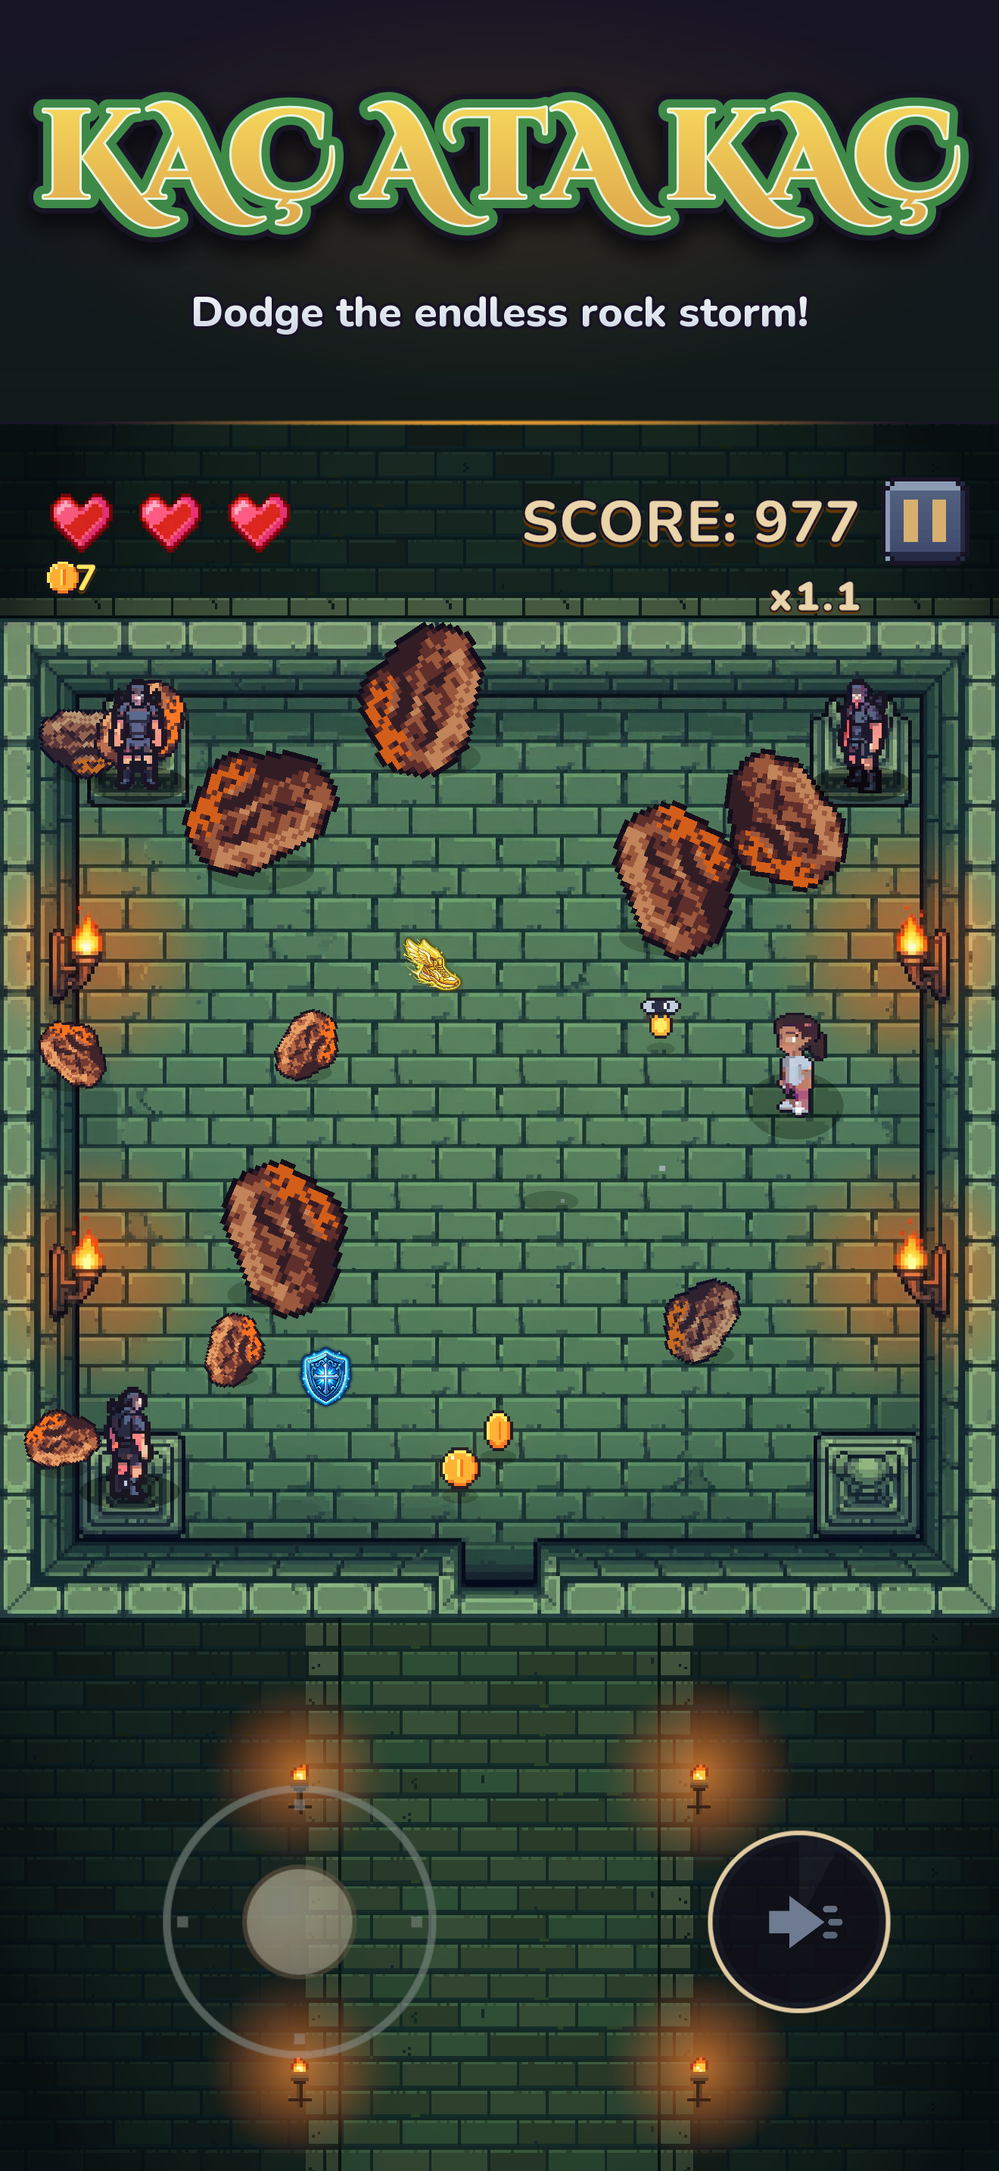
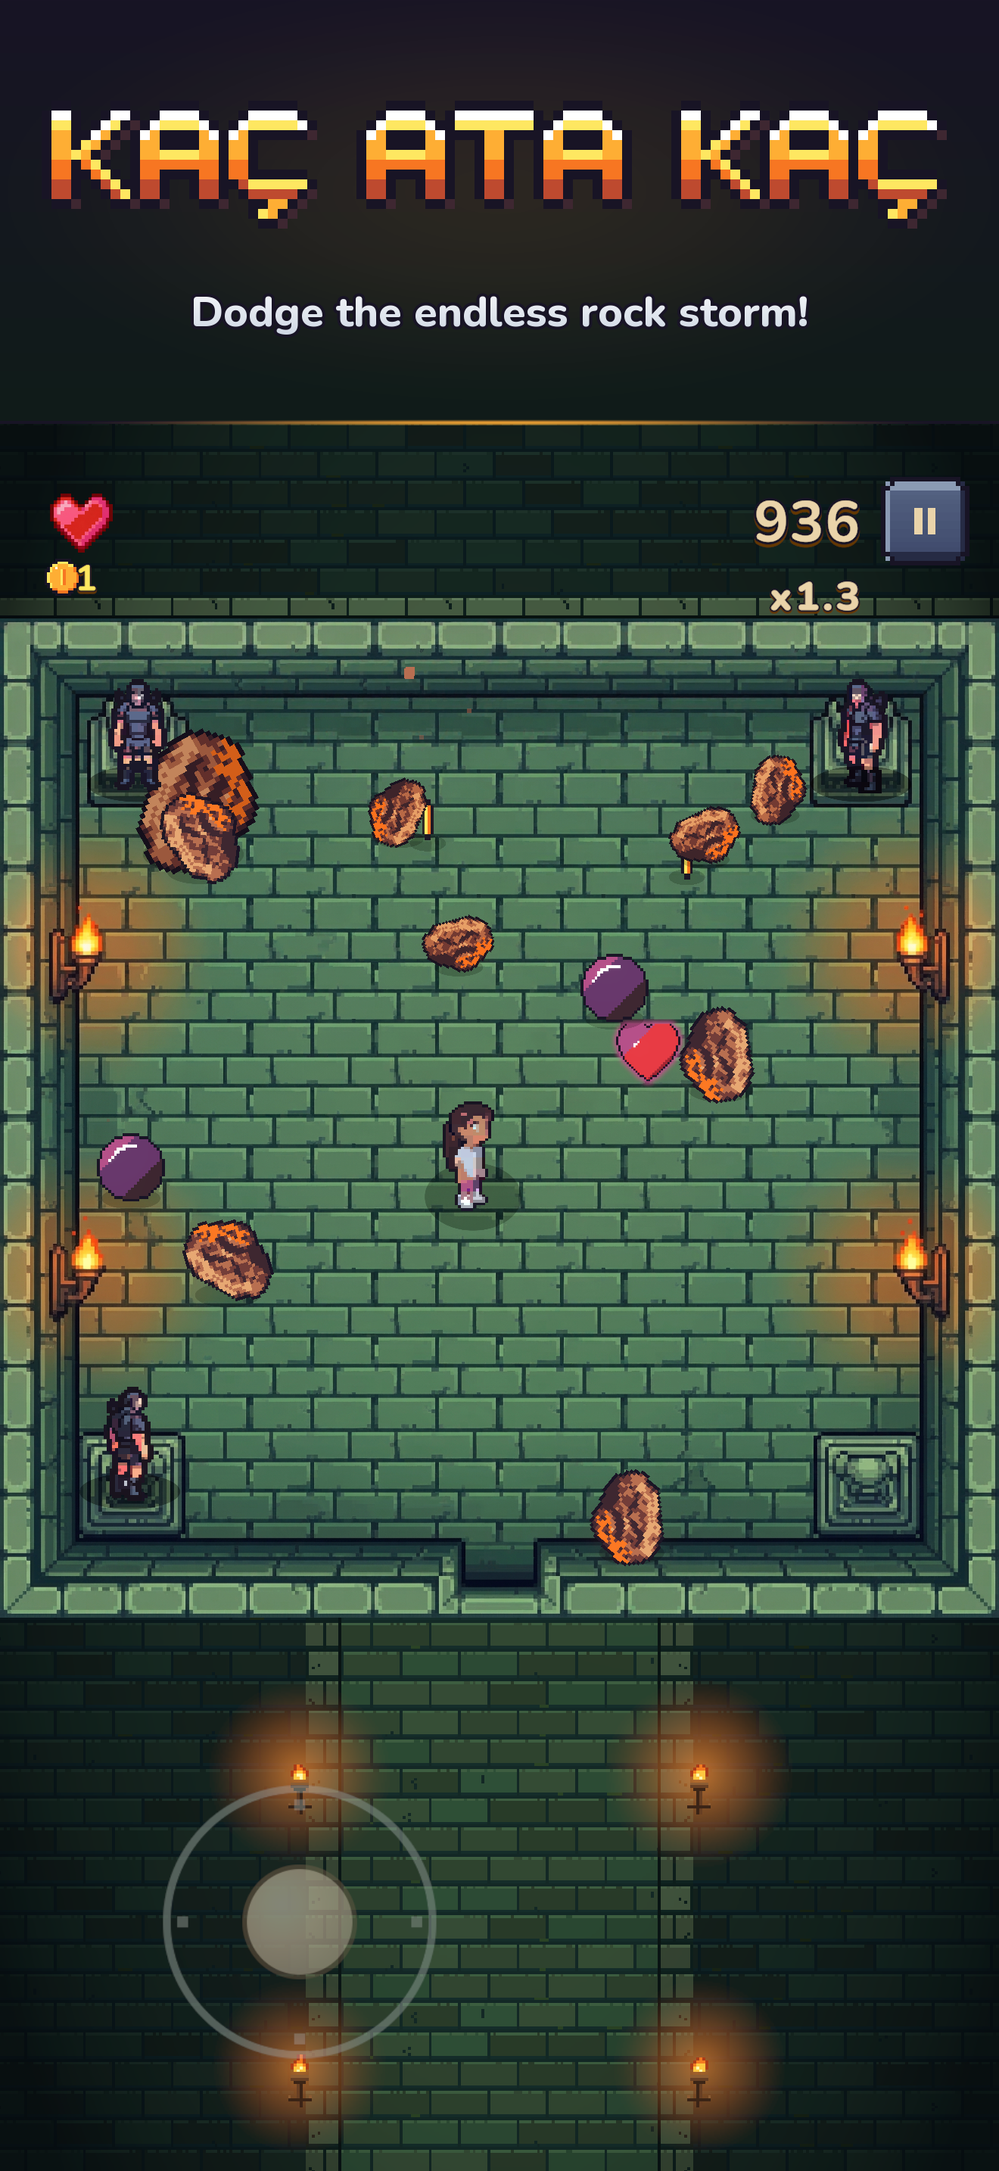
feat(faz-14 Ö6a): mağaza odak sürümüne göre — metin ve görseller
- listing.md TR/EN: dash, pet, görev, günlük ödül ve Sessizlik vaadi kalktı; 5 eşya, 3 olay, altınla güçlenme, tek telefonda 2 kişi
- Görseller: piksel logo, kıl payı kaçış ("!" göktaşı) ve iki kişilik sahneleri; eski pet ve günlük ödül görselleri silindi
- Çekim: ölümsüzlük oyun başında açılıyor, rekor sahnesi her dilde yeni rekorla bitiyor
- GiveAllPowerups yalnız bölümün eşya listesini verir

diff --git a/tools/kak_store_shots.py b/tools/kak_store_shots.py
@@ -55,30 +55,32 @@ BASE = [
 SHOTS = [
     {"id": "1_oyun", "logo": True,
      "cap": ("KAÇ ATA KAÇ", "Taş yağmurundan kaç, rekorunu kır!", "KAÇ ATA KAÇ", "Dodge the endless rock storm!"),
-     "setup": [["invoke", "KakDevMenu", "PlayAs", "Ada"], ["wait", 2], ["invoke", "KakDevMenu", "PlayWithPet", "Firefly"],
-               ["wait", 3], ["menu", "KacAtaKac/Dev/Ölümsüzlük Aç-Kapa"], ["invoke", "KakDevMenu", "SkipTime", "200"], ["invoke", "KakDevMenu", "AddScore", "760"],
+     "setup": [["invoke", "KakDevMenu", "PlayAs", "Ada"],
+               ["wait", 1], ["menu", "KacAtaKac/Dev/Ölümsüzlük Aç-Kapa"], ["wait", 4], ["invoke", "KakDevMenu", "SkipTime", "200"], ["invoke", "KakDevMenu", "AddScore", "760"],
                ["menu", "KacAtaKac/Dev/Test Botunu Başlat (usta)"], ["wait", 6]]},
     {"id": "2_karakter", "per_lang": True,
-     "cap": ("5 kahraman, 5 oyun tarzı", "Altın topla, yenilerinin kilidini aç", "5 heroes, 5 play styles", "Collect gold to unlock new heroes"),
+     "cap": ("5 kahraman, 5 oyun tarzı", "Altın topla, kahramanını güçlendir", "5 heroes, 5 play styles", "Collect gold, power up your hero"),
      "setup": [["invoke", "SceneLoader", "LoadMenu"], ["wait", 2], ["menu", "KacAtaKac/Dev/UI - Karakterleri Aç"], ["wait", 1],
                ["invoke", "KakDevMenu", "PressCharacterCard", "1"], ["wait", 1]]},
     {"id": "3_guc",
-     "cap": ("Güçlendirmeleri kap", "Kalkan, hız, yavaş çekim, hayalet, can", "Grab power-ups", "Shield, speed, slow-mo, ghost, extra life"),
+     "cap": ("Güçlendirmeleri kap", "Kalkan, yavaş çekim, hayalet, can", "Grab power-ups", "Shield, slow-mo, ghost, extra life"),
      "setup": [["invoke", "KakDevMenu", "PlayAs", "Tank"], ["wait", 3], ["menu", "KacAtaKac/Dev/Ölümsüzlük Aç-Kapa"],
                ["invoke", "KakDevMenu", "SkipTime", "160"], ["invoke", "KakDevMenu", "AddScore", "620"], ["menu", "KacAtaKac/Dev/Test Botunu Başlat (usta)"], ["wait", 5],
                ["menu", "KacAtaKac/Dev/Tüm Powerup'ları Ver"], ["wait", 0.6]], "take_gap": 0.4},
-    {"id": "4_pet", "per_lang": True,
-     "cap": ("Petin hep yanında", "Ateşböceği altın çeker, kaplumbağa korur", "Your pet has your back", "Firefly pulls gold, turtle shields you"),
-     "setup": [["invoke", "SceneLoader", "LoadMenu"], ["wait", 2], ["invoke", "KakDevMenu", "OpenPets"], ["wait", 1],
-               ["invoke", "KakDevMenu", "PressPetCard", "0"], ["wait", 1]]},
+    {"id": "4_kacis",
+     "cap": ("Kıl payı kaç", "Göktaşının yerini \"!\" söyler", "Graze the danger", "The \"!\" shows where it lands"),
+     "setup": [["invoke", "KakDevMenu", "PlayAs", "Boy"], ["wait", 3], ["menu", "KacAtaKac/Dev/Ölümsüzlük Aç-Kapa"],
+               ["invoke", "KakDevMenu", "SkipTime", "120"], ["invoke", "KakDevMenu", "AddScore", "540"],
+               ["menu", "KacAtaKac/Dev/Test Botunu Başlat (usta)"], ["wait", 4], ["invoke", "KakDevMenu", "StartEvent", "0"], ["wait", 2.8]], "take_gap": 0.5},
     {"id": "5_rekor", "per_lang": True,
-     "cap": ("Rekorunu kır", "Görevleri bitir, altınları topla", "Beat your best", "Finish missions, earn gold"),
-     "setup": [["invoke", "KakDevMenu", "PlayAs", "Swift"], ["wait", 3], ["invoke", "KakDevMenu", "SetBest", "900"],
+     "cap": ("Rekorunu kır", "Her oyun bir öncekinden uzun", "Beat your best", "Every run lasts a little longer"),
+     "setup": [["invoke", "KakDevMenu", "PlayAs", "Swift"], ["wait", 3], ["invoke", "KakDevMenu", "SetBest", "900"], ["menu", "KacAtaKac/Dev/Ölümsüzlük Aç-Kapa"],
                ["menu", "KacAtaKac/Dev/Test Botunu Başlat (usta)"], ["wait", 38], ["invoke", "KakDevMenu", "AddScore", "1050"],
                ["wait", 1], ["menu", "KacAtaKac/Dev/Oyuncuyu Öldür"], ["wait", 4.5]]},
-    {"id": "6_gunluk", "per_lang": True,
-     "cap": ("Her gün yeni ödül", "7 günlük seriyi tamamla", "Rewards every day", "Complete the 7-day streak"),
-     "setup": [["invoke", "SceneLoader", "LoadMenu"], ["wait", 2], ["invoke", "KakDevMenu", "OpenDaily", "3"], ["wait", 1.5]]},
+    {"id": "6_iki",
+     "cap": ("Tek telefonda 2 kişi", "Ata ve Ada birlikte kaçar", "2 players, 1 phone", "Ata and Ada run together"),
+     "setup": [["invoke", "KakDevMenu", "PlayTwoPlayer"], ["wait", 3], ["menu", "KacAtaKac/Dev/Ölümsüzlük Aç-Kapa"],
+               ["invoke", "KakDevMenu", "SkipTime", "90"], ["invoke", "KakDevMenu", "AddScore", "430"], ["wait", 5]]},
 ]
 
 
@@ -195,12 +197,14 @@ def text_layer(size, text, f, fill_top, fill_bottom, strokes, shadow=None):
 
 
 def logo(w, h, size, text="KAÇ ATA KAÇ"):
-    """Menüdeki logonun benzeri: Cinzel Decorative, altın dolgu, açık iç kontur, yeşil dış kontur, koyu gölge."""
-    f = fit_font("CinzelDecorative-Black.ttf", text, int(w * 0.92), size)
-    s = max(2, f.size // 22)
-    return text_layer((w, h), text, f, GOLD_LIGHT, LOGO_FILL,
-                      [(INK, s * 3), (GREEN, s * 2), ((0xE8, 0xF5, 0xE0), max(1, s // 2))],
-                      shadow=((0x0B, 0x0A, 0x12), s * 2, s * 2))
+    """Faz 14: oyundaki piksel logonun kendisi (Art/UI/logo_pixel.png), tam sayı ölçekle (bulanıklaşmaz), ortalı."""
+    src = Image.open(os.path.join(ROOT, "Assets", "Art", "UI", "logo_pixel.png")).convert("RGBA")
+    base = src.resize((src.width // 8, src.height // 8), Image.NEAREST)   # 1 sanat pikseli
+    k = max(1, min(int(w * 0.94) // base.width, h // base.height))
+    big = base.resize((base.width * k, base.height * k), Image.NEAREST)
+    out = Image.new("RGBA", (w, h), (0, 0, 0, 0))
+    out.alpha_composite(big, ((w - big.width) // 2, (h - big.height) // 2))
+    return out
 
 
 def caption_band(w, h, top_color, head, sub, use_logo, scale):
@@ -314,7 +318,6 @@ def feature():
             drop_shadow(c, spr, (x, y), ellipse=(x + (bx0 + bx1) // 2, foot - 2, 70, 11), alpha=150)
             placed.append((x + bx0, y + by0, x + bx1, y + by1))
         assert placed[1][2] <= W - 24, "Ata kenara taştı"
-        drop_shadow(c, load_sprite("Assets/Art/Pets/firefly_0.png", 5), (placed[0][0] + 40, placed[0][1] - 96))
         # arkadan (sol üst) gelen taşlar, izleriyle; yüzlerden uzak
         for sc, pos, st in ((4, (596, 22), (26, 14)), (3, (772, 104), (22, 12)), (5, (880, 12), (30, 16))):
             trail(c, rock(sc), pos, st)

diff --git a/Assets/Scripts/Editor/KakDevMenu.cs b/Assets/Scripts/Editor/KakDevMenu.cs
@@ -93,11 +93,11 @@ public static class KakDevMenu
     {
         var player = Object.FindAnyObjectByType<PlayerMovement2D>();
         if (player == null) return;
-        foreach (var guid in AssetDatabase.FindAssets("t:PowerupData", new[] { "Assets/Data/Powerups" }))
-        {
-            var d = AssetDatabase.LoadAssetAtPath<PowerupData>(AssetDatabase.GUIDToAssetPath(guid));
+        // Faz 14: yalnız bu bölümün eşyaları (gizli dünyaların eşyaları değil)
+        var level = LevelManager.Instance != null ? LevelManager.Instance.currentLevel : null;
+        if (level == null || level.availablePowerups == null) return;
+        foreach (var d in level.availablePowerups)
             if (d != null && d.type != PowerupType.Heal && !d.harmful) PowerupPickup.Apply(d, player.gameObject, player.transform.position);
-        }
     }
 
     /// <summary>Kayıttaki oyun sayısını ayarlar (açılma takvimini denemek için; Play'de geçici kayda yazar). Köprü: invoke KakDevMenu SetGamesPlayed 4</summary>

diff --git a/Docs/Magaza/listing.md b/Docs/Magaza/listing.md
@@ -12,64 +12,62 @@
 | App Store 6,9" iPhone (1-10) | `appstore/tr_*.png`, `appstore/en_*.png` (6'şar) | 1320×2868 |
 | App Store ikon | `ikon_1024.png` (projede otomatik de gider) | 1024×1024, şeffaflık yok |
 
-Sıra: 1 oyun (logo) · 2 karakterler · 3 güçlendirmeler · 4 petler · 5 rekor + görevler · 6 günlük ödül.
+Sıra (Faz 14 odak sürümü): 1 oyun (logo) · 2 karakterler · 3 güçlendirmeler · 4 kıl payı kaçış ("!") · 5 rekor · 6 iki kişilik.
 Yeniden üretmek için (Unity açık): `python3 tools/kak_store_shots.py all` (çekim → birleştirme → öne çıkan grafik → ikon). Tümü oyundan gerçek görüntü; yalnızca başlık bandı eklendi.
 
 ## Türkçe
 - **Ad (30):** Kaç Ata Kaç
 - **Alt başlık, App Store (30):** Sonsuz taş yağmurundan kaç!
-- **Kısa açıklama, Google Play (80):** Dört köşeden taş yağıyor! Kaç, dash at, kahramanını seç, rekorunu kır.
-- **Tanıtım metni, App Store (170):** Tek parmakla kaç, taşların hemen yanından sıyrıl, altın topla. 5 kahraman, sadık petler, görevler ve günlük ödüllerle her oyun biraz daha heyecanlı!
+- **Kısa açıklama, Google Play (80):** Dört köşeden taş yağıyor! Kıl payı kaç, kahramanını güçlendir, rekorunu kır.
+- **Tanıtım metni, App Store (170):** Tek parmakla kaç, taşların kıl payı yanından sıyrıl, altın topla. 5 kahraman, güçlendirmeler ve tek telefonda 2 kişilik mod!
 - **Açıklama (4000):**
 
   Ata ile Ada, unutulmuş Taş Zindanı'nda efsanevi altınları arıyordu. İlk altına dokundukları an Taş Muhafızlar uyandı ve lanet onları her yerde kovalamaya başladı. Saldıramazsın: tek çare kaçmak, altınları toplamak ve laneti kırmak!
 
   Karanlık bir zindanın ortasındasın ve dört köşedeki muhafızlar sana taş fırlatıyor.
-  Tek parmakla kaç, doğru anda dash at, taşların hemen yanından sıyrılarak bonus topla.
+  Tek parmakla kaç, taşların kıl payı yanından sıyrılarak bonus topla.
   Hayatta kaldıkça oyun hızlanır: çakıllar, dev kayalar, duvardan seken taşlar, ikiye bölünenler, gökten düşen göktaşları…
 
   **Neler var?**
   - Tek elle oynanan, dikey, hızlı bir arcade oyunu
-  - 7 taş türü, 4 sürpriz olay (Taş Yağmuru, Çapraz Ateş, Sessizlik, Yuvarlanan Kaya)
-  - Yakın geçiş bonusu ve combo çarpanı
-  - Kalkan, hız, yavaş çekim, hayalet ve can güçlendirmeleri
+  - 7 taş türü, her biri bakışta tanınır; 3 sürpriz olay (Taş Yağmuru, Çapraz Ateş, Yuvarlanan Kaya)
+  - Yakın geçiş bonusu ve skor çarpanı
+  - Kalkan, yavaş çekim, hayalet ve can güçlendirmeleri; ama Pranga'dan uzak dur!
   - 5 kahraman, her biri farklı: dengeli Ata ve Ada, hızlı Çevik, dayanıklı Tank, bol altınlı Şanslı
-  - Petler: altınları sana çeken Ateşböceği, arada kalkan veren Kaplumbağa
-  - Her oyunda yeni görevler, 7 günlük ödül serisi
-  - Oyun sırasında topladığın altınla yeni kahraman ve pet aç
+  - Topladığın altınla kahramanını güçlendir: daha çok can, daha hızlı adım, daha uzun güç
+  - Tek telefonda 2 kişilik mod: Ata ve Ada birlikte kaçar
   - Piksel sanatı, meşale ışığında bir zindan
   - İnternet gerekmez, hesap gerekmez
 
   Rekorunu kır, arkadaşlarına meydan oku. Kaç, Ata, kaç!
-- **Anahtar kelimeler, App Store (100):** kaçış,taş,arcade,sonsuz,refleks,piksel,zindan,hayatta kal,dodge,retro,pet
+- **Anahtar kelimeler, App Store (100):** kaçış,taş,arcade,sonsuz,refleks,piksel,zindan,hayatta kal,dodge,retro,2 kişilik
 - **Kategori:** Oyun › Arcade (ikincil: Gündelik / Casual)
 - **Yaş derecelendirmesi (anket sonucu belirler, beklenen):** App Store 9+, Google Play PEGI 7 / ESRB E10+ (hafif çizgi film şiddeti: taşlar; kan yok)
 
 ## English
 - **Name (30):** Kaç Ata Kaç — Rock Dodge
 - **Subtitle, App Store (30):** Survive the endless rock storm
-- **Short description, Google Play (80):** Rocks from every corner! Dodge, dash, pick your hero and beat your best.
-- **Promotional text, App Store (170):** Dodge with one thumb, graze rocks for bonus points and grab gold. 5 heroes, loyal pets, missions and daily rewards make every run a little more exciting!
+- **Short description, Google Play (80):** Rocks from every corner! Graze them, power up your hero and beat your best.
+- **Promotional text, App Store (170):** Dodge with one thumb, graze rocks for bonus points and grab gold. 5 heroes, power-ups and a 2-player mode on one phone!
 - **Description (4000):**
 
   Ata and Ada were searching the forgotten Stone Dungeon for legendary gold. The moment they touched the first coin, the Stone Guardians woke up, and now the curse chases them everywhere. You can't fight back: run, grab the gold and break the curse!
 
   You're trapped in a dark dungeon and four guards are hurling rocks at you.
-  Dodge with one thumb, dash at the perfect moment and graze rocks for bonus points.
+  Dodge with one thumb and graze rocks for bonus points.
   The longer you survive, the wilder it gets: pebbles, boulders, bouncing rocks, splitting rocks, meteors…
 
   **Features**
   - One-handed, portrait, fast-paced arcade action
-  - 7 rock types, 4 surprise events (Rock Rain, Crossfire, Silence, Rolling Boulder)
-  - Close-call bonus and combo multiplier
-  - Shield, speed, slow-mo, ghost and extra-life power-ups
+  - 7 rock types you can read at a glance; 3 surprise events (Rock Rain, Crossfire, Rolling Boulder)
+  - Close-call bonus and score multiplier
+  - Shield, slow-mo, ghost and extra-life power-ups, but stay away from the Shackle!
   - 5 heroes with their own style: balanced Ata and Ada, speedy Swift, tough Tank, gold-hungry Lucky
-  - Pets: a Firefly that pulls gold to you and a Turtle that shields you now and then
-  - New missions every run and a 7-day reward streak
-  - Spend the gold you collect to unlock new heroes and pets
+  - Spend your gold to power up your hero: more hearts, faster steps, longer power-ups
+  - 2-player mode on one phone: Ata and Ada run together
   - Pixel art dungeon lit by torches
   - Plays offline, no account needed
 
   Beat your best and challenge your friends. Run, Ata, run!
-- **Keywords, App Store (100):** dodge,rocks,arcade,endless,reflex,pixel,dungeon,survival,retro,casual,pet
+- **Keywords, App Store (100):** dodge,rocks,arcade,endless,reflex,pixel,dungeon,survival,retro,casual,2 player
 - **Category:** Games › Arcade (secondary: Casual)

diff --git a/.claude/skills/kacatakac/progress.md b/.claude/skills/kacatakac/progress.md
@@ -1,6 +1,6 @@
 # KaçAtaKaç — İlerleme ve Durum
 
-> Her iş sonunda güncellenir. En son güncelleme: **2026-10-03**
+> Her iş sonunda güncellenir. En son güncelleme: **2026-10-04**
 
 ## Son durum (özet)
 
@@ -148,7 +148,8 @@ Sonra: 6 (Buz) → 7 (Futbol) → 8 (Karanlık) → 9 (Meta).
 - [x] Ö3 oyun içi sadelik: yakın geçişte "YAKIN!" yazısı yerine küçük altın "+5" + camgöbeği kıvılcım, eşya adı yalnız ilk alışta (`SaveData.seen` "pu_named_<tür>"), oyun sonu istatistik satırı "SÜRE · YAKIN GEÇİŞ" (COMBO kalktı), görevsiz panel 1370 (sıradaki hedef satırı TEKRAR'a değmiyordu). Kademe ve olay afişleri kaldı. Testler 131/131 + 27/27
 - [x] Ö4 görsel tutarlılık: 5 eşya ikonu tek stilde (`tools/kak_gen_icons.py`: 32 px, aynı kontur ve ışık, renk rolüne göre tek hâle), arayüz ikonları yeniden (oynat, karakter, dişli, duraklat, kilit, onay), karakter kartı sade (büyük karakter, açıklama yalnız detayda, dash çubuğu yok), taş türleri bakışta ayırt edilir (`tools/kak_gen_rocks.py`: güdümlü = kırmızı göz, parçalanan = parlayan çatlak, seken = yuvarlak mor taş `keepUpright`). Testler 131/131 + 27/27
 - [x] Ö5 his ve akış: HUD skoru yalnız sayı ("SKOR:" kalktı), ilk oyun ipuçları zaten dash'siz, dokunulmazlık yanıp sönmesi süreye bağlı (yavaş karelerde dokunulmazlıktan uzun sürüyordu), Zindan bot ölçümü usta 91-246 / acemi 135-295 sn (tek dünya, 1-4 dk seans hedefine uygun). Editör sesi kapalı (kullanıcı isteği). Testler 131/131 + 27/27
-- [ ] Ö6 telefon
+- [x] Ö6a mağaza: `Docs/Magaza/listing.md` TR/EN odak kapsamına göre (dash/pet/görev/günlük ödül/Sessizlik yok; 5 eşya, 3 olay, altınla güçlenme, tek telefonda 2 kişi; anahtar kelimede "pet" → "2 kişilik"; sınırlar 76-79/80, 119-124/170, 78-79/100). Görseller: 1 oyun (piksel logo), 2 karakter, 3 güç, 4 kıl payı kaçış (göktaşı "!"), 5 rekor, 6 iki kişilik; eski 4_pet ve 6_gunluk silindi. `GiveAllPowerups` yalnız bölümün eşya listesini verir. Testler 131/131 (+1 atlanan) + 27/27
+- [ ] Ö6b telefon: odak sürümünü iPhone'a kur, kullanıcı "AI slop" gözüyle değerlendirsin
 
 **Faz 13 — yeni dünyalar TAMAM** (`prompts/faz-13-yeni-dunyalar.md`, PR #41-#44). Faz 13 sürümü **iPhone'a kuruldu** (2026-10-03, iOS 26.7). Sıradaki: kullanıcının 4 dünyayı denemesi ve geri bildirimi; sonra boks ringi, kostümler, karakter yetenekleri, online (Faz 11 notları), 120 FPS ayarı, duraklat menüsünden kontrol düzeni.
 - [x] K1 karanlık sistemi (`DarkWorld`: tema `darkness` → karanlık katmanı SpriteMask dışında, `PlayerLight` meşale deliği + yumuşak kenar + hâle + elde meşale, `TorchProgress` Sv1-4 yarıçap 1,7/2,1/2,5/2,9, fiyat 250/600/1200, ipuçları: taş parıltısı, fırlatıcı gözleri (atıştan önce yanar), "!", altın, eşya). Testler 115/115 + 27/27
@@ -175,6 +176,7 @@ Her alt faz sonunda: testler + bot ölçümü + PR + (kullanıcı kablo takınca
 - [x] (2026-10-03) Dış eklentiler kuruldu: Unity resmi eklentisi + skill-creator (kullanım kuralları SKILL.md §6.7). Faz 11 sürümü telefonda kurulu; kullanıcının oyun geri bildirimi bekleniyor.
 
 ### Onay bekleyenler
+- **Faz 14 odak sürümü (telefon):** tek dünya, 5 eşya, 3 olay, piksel logo, sade menü/HUD → kullanıcı "hâlâ AI slop mu?" gözüyle oynasın; mağaza metni ve görselleri (`Docs/Magaza`) de yeni kapsamla.
 - **Faz 11 telefon testi:** tek can başlangıcı, yükseltme hızı, Pranga, 2 kişilik, Buz Gölü kayması → kullanıcının geri bildirimi.
 - **Ücretsiz Apple hesabı:** telefondaki uygulama 7 günde bir yeniden kurulmalı (kablo takılınca `xcrun devicectl device install app`).
 - **Sesler** prosedürel üretildi, Claude dinleyemedi. Kulağa hoş gelmeyen varsa söyle (`tools/kak_gen_audio.py` ile yeniden üretilir).

diff --git a/.claude/skills/kacatakac/learnings.md b/.claude/skills/kacatakac/learnings.md
@@ -4,6 +4,12 @@
 > Kaydedilecekler: kararlar ve gerekçeleri, keşfedilen tuzaklar, kullanıcının tercihleri/geri bildirimleri, işe yarayan/yaramayan yaklaşımlar.
 > Kod veya git geçmişinden zaten okunabilecek şeyleri tekrar yazma.
 
+## 2026-10-04 — Faz 14 Ö6a: mağaza
+
+- Kapsam daralınca mağaza metni ve görselleri de daralmalı: gizlenen özelliği (pet, görev, günlük ödül, dash) vaat etmek oyuncuyu yanıltır ve inceleme reddine yol açabilir. Her kapsam değişikliğinde `listing.md` + `kak_store_shots.py` birlikte gözden geçirilir.
+- Mağaza çekiminde ölümsüzlüğü **oyun başlar başlamaz** aç (2 kalpli karakter ısınmada 4 sn'de ölebiliyor); dil başına ayrı kurulan sahnelerde (per_lang) bot süresi dile göre farklı geçer, sonuç ekranı için önce ölümsüzlük, sonra `Oyuncuyu Öldür`.
+- Olay anı gibi zamanlamaya duyarlı karelerde `capture <id> --takes 4` + `pick <id> <k>` ile en okunur an seçilir.
+
 ## 2026-10-04 — Faz 14 Ö5 + kullanıcı tercihi: ses kapalı
 
 - **Kullanıcı tercihi:** "sesi kullanmıyorsan off halinde çalış" → köprü açılışta editör sesini kapatır (`EditorPrefs kak_mute_audio`, varsayılan açık-kapalı = kapalı); `invoke KakEditorUtil Mute 0/1`. Claude'un Play/test oturumlarında müzik çalmasın.
